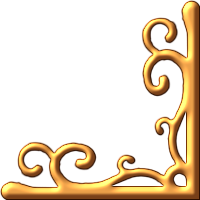
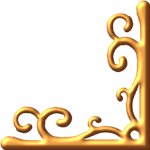
Stylowanie

diff --git a/Hotel/static/Hotel/main.less b/Hotel/static/Hotel/main.less
@@ -227,7 +227,7 @@ body {
     }
 
     .reservations-content {
-        background-image: url(img/pattern18.jpg);
+        background-image: url(img/content-pattern.jpg);
         margin: 0 auto;
         position: relative;
         width: 900px;
@@ -243,24 +243,24 @@ body {
         }
 
         &:before {
-            background-image: url(img/content-nw2.png);
+            background-image: url(img/content-nw.png);
             top: -5px;
             content: " ";
-            height: 100px;
+            height: 150px;
             left: -5px;
             position: absolute;
-            width: 100px;
+            width: 150px;
             z-index: 1;
         }
 
         &:after {
-            background-image: url('img/content-se2.png');
+            background-image: url('img/content-se.png');
             bottom: -5px;
             content: " ";
-            height: 100px;
+            height: 150px;
             right: -5px;
             position: absolute;
-            width: 100px;
+            width: 150px;
             z-index: 1;
         }
 
@@ -374,12 +374,6 @@ body {
                 margin: 0 0 0 20px;
                 position: relative;
 
-                .ui-datepicker {
-                    border-style: solid;
-                    border-width: 30px;
-                    border-image: url(img/kalendarzr-ramka.png) 30 repeat;
-                }
-
                 .calendar-to {
                     margin-left: 50px;
                 }
@@ -469,30 +463,30 @@ body {
     }
 
     .visualization-content {
-        background-color: #ecc176;
+        background-image: url(img/content-pattern.jpg);
         margin: 0 auto;
         position: relative;
         width: 900px;
 
         &:before {
             background-image: url(img/content-nw.png);
-            top: -10px;
+            top: -5px;
             content: " ";
-            height: 200px;
-            left: -10px;
+            height: 150px;
+            left: -5px;
             position: absolute;
-            width: 200px;
+            width: 150px;
             z-index: 1;
         }
 
         &:after {
             background-image: url('img/content-se.png');
-            bottom: -10px;
+            bottom: -5px;
             content: " ";
-            height: 200px;
-            right: -10px;
+            height: 150px;
+            right: -5px;
             position: absolute;
-            width: 200px;
+            width: 150px;
             z-index: 1;
         }
 
@@ -634,31 +628,31 @@ body {
     }
 
     .pricing-content{
-        background-image: url(img/pattern18.jpg);
+        background-image: url(img/content-pattern.jpg);
         text-align: center;
         width: 900px;
         margin: 0 auto;
         position: relative;
 
         &:before {
-            background-image: url(img/content-nw2.png);
+            background-image: url(img/content-nw.png);
             top: -5px;
             content: " ";
-            height: 100px;
+            height: 150px;
             left: -5px;
             position: absolute;
-            width: 100px;
+            width: 150px;
             z-index: 1;
         }
 
         &:after {
-            background-image: url('img/content-se2.png');
+            background-image: url('img/content-se.png');
             bottom: -5px;
             content: " ";
-            height: 100px;
+            height: 150px;
             right: -5px;
             position: absolute;
-            width: 100px;
+            width: 150px;
             z-index: 1;
         }
 

diff --git a/Hotel/templates/Hotel/rezerwacje.html b/Hotel/templates/Hotel/rezerwacje.html
@@ -6,7 +6,7 @@
 
 {% block content %}
 
-<!--<link rel="stylesheet/less" type="text/css" href="{% static 'Hotel/jquery-ui-1.10.3.custom.css' %}" />-->
+<link rel="stylesheet/less" type="text/css" href="{% static 'Hotel/jquery-ui-1.10.3.custom.css' %}" />
 
 <div id="reservations">
 

diff --git a/Hotel/static/Hotel/jquery-ui-1.10.3.custom.css b/Hotel/static/Hotel/jquery-ui-1.10.3.custom.css
@@ -261,7 +261,10 @@
 .ui-tabs .ui-tabs-nav {
     text-align: center;
 	margin: 0;
-	padding: .2em .2em 0;
+	padding: 5px 0;
+}
+.ui-tabs-nav li {
+    border-radius: 5px;
 }
 .ui-tabs .ui-tabs-nav li {
     display: inline-block;
